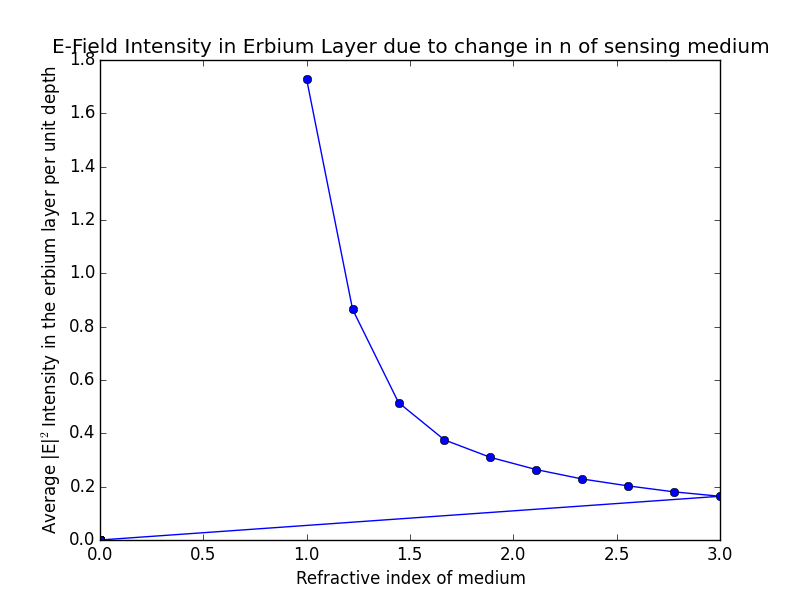
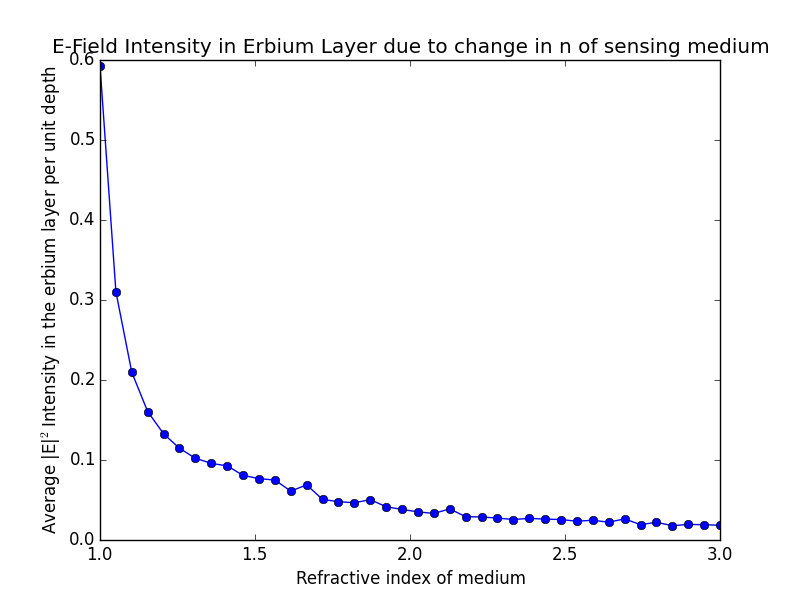
Imporved looping in test(). Now shows the same E field as in Polman - bar the magnitude.

diff --git a/lifetmm/examples.py b/lifetmm/examples.py
@@ -16,27 +16,48 @@ import matplotlib.pyplot as plt
 # "1.2 / degree" is 1.2 radians expressed in degrees
 degree = pi / 180
 
+mmTOnm = 1E6
+
+
 def test():
     # Loop parameters
     # list of wavelengths to evaluate
     lambda_vac = 1550
-    # incoming light angle
-    th_0 = linspace(0, 90, num=90+1, endpoint=False) # in degrees (convert in function argument)
+    # incoming light angle (in degrees)
+    th_0 = linspace(0, 90, num=90, endpoint=False)
 
-    # ------------- DO CALCULATIONS  -----------------
     # list of layer thicknesses in nm. First and last layer are semi-infinite ambient and substrate layers
-    d_list = [inf, 10000, 10000, inf]
+    d_list = [inf, 1000, inf]
     # list of refractive indices
-    n_list = [1.5, 1.5, 1.5, 1.5]
+    n_list = [1.5, 1.5, 3]
+    n_listB = [1.5, 1.5, 1.5]
 
     data = np.zeros(sum(d_list[1:-1]))
-    E_avg = np.zeros(len(d_list))
+    E_avg =0
+
+    runs = 0
+
     for th in th_0:
-        data += TransferMatrix(d_list, n_list, lambda_vac, th * degree, 's')['E_square']
-        E_avg += TransferMatrix(d_list, n_list, lambda_vac, th * degree, 's')['E_avg']
+        for pol in ['s', 'p']:
+            for rev in [True, False]:
+                runs += 1
+                data += (TransferMatrix(d_list, n_list, lambda_vac, th * degree, pol, reverse=rev)['E_square'] /
+                         TransferMatrix(d_list, n_listB, lambda_vac, th * degree, pol, reverse=rev)['E_square'])
+
+                E_avg += (TransferMatrix(d_list, n_list, lambda_vac, th * degree, pol, reverse=rev)['E_avg'][1] /
+                         TransferMatrix(d_list, n_listB, lambda_vac, th * degree, pol, reverse=rev)['E_avg'][1])
+
+        # E_avg += (TransferMatrix(d_list, n_list, lambda_vac, th * degree, 's', reverse=True)['E_avg'] +
+        #     TransferMatrix(d_list, n_list, lambda_vac, th * degree, 's', reverse=False)['E_avg']) /2
+
+    # Normalise
+    data /= runs
+    E_avg /= runs
+
+    print(E_avg)
 
     plt.figure()
-    plt.plot(E_avg)
+    plt.plot(data)
     plt.xlabel('Position in Device (nm)')
     plt.ylabel('Normalized |E|$^2$Intensity')
     plt.title('E-Field Intensity in Device')
@@ -141,40 +162,51 @@ def sample3():
     # list of wavelengths to evaluate
     lambda_list = [1550]  # in nm
     # incoming light angle
-    th_0 = linspace(0, 90, num=10, endpoint=False)  # in degrees (convert in function argument)
+    th_0 = linspace(0, 90, num=45, endpoint=False)  # in degrees (convert in function argument)
 
-    # ------------- DO CALCULATIONS  -----------------
     # list of layer thicknesses in nm
     d_list = [inf, 1500, 300, 10000, inf]
     # list of refractive indices
-    n_list_med = [1.5, 1.5, 1, 3, 3]
+    n_list_med = [1.5, 1.5+0.1j, 1, 1.4, 3]
+    n_list_bulk = [1.5, 1.5+0.1j, 1, 1, 1]
     # TODO zoran: bulk just gives 1 for all layers in E_avg - only when no imaginary component to n
     # TODO zoran: cos theta weighting present in both medium and bulk cancels => no effect => not needed?
-    n_list_bulk = [1.5, 1.5, 1.5, 1.5, 1.5]
+
+    # n range of sensing medium
+    nrange = linspace(1, 3, num=40)
+    # layer which is the sensing medium
+    medium = 4
+
+    # Initialise arrays
     data_s = np.zeros(len(d_list[1:-1]))
     data_p = np.zeros(len(d_list[1:-1]))
-    data = np.zeros(len(linspace(1, 3)))
-    x = np.zeros(len(linspace(1, 3)))
+    y_E_avg = np.zeros(len(nrange))
+    x_n = np.zeros(len(nrange))
+
     runs = 0
-    for i, n in enumerate(linspace(1, 3, num=10)):
-        n_list_med[3] = n
+    for i, n in enumerate(nrange):
+        n_list_med[medium] = n
         for lambda_vac in lambda_list:
             for th in th_0:
                 runs += 1
-                a = TransferMatrix(d_list, n_list_med, lambda_vac, th * degree, 's')['E_avg']
-                b = TransferMatrix(d_list, n_list_bulk, lambda_vac, th * degree, 's')['E_avg']
-                data_s += (a[1:-1]/b[1:-1])
-                c = TransferMatrix(d_list, n_list_med, lambda_vac, th * degree, 'p')['E_avg']
-                d = TransferMatrix(d_list, n_list_bulk, lambda_vac, th * degree, 'p')['E_avg']
-                data_p += (c[1:-1]/d[1:-1])
+                a = TransferMatrix(d_list, n_list_med, lambda_vac, th * degree, 's')['E_avg'] +\
+                    TransferMatrix(d_list, n_list_med, lambda_vac, th * degree, 's', reverse=True)['E_avg']
+                b = TransferMatrix(d_list, n_list_bulk, lambda_vac, th * degree, 's')['E_avg'] +\
+                    TransferMatrix(d_list, n_list_bulk, lambda_vac, th * degree, 's', reverse=True)['E_avg']
+                data_s += (a/b)
+                c = TransferMatrix(d_list, n_list_med, lambda_vac, th * degree, 'p')['E_avg'] +\
+                     TransferMatrix(d_list, n_list_med, lambda_vac, th * degree, 'p')['E_avg']
+                d = TransferMatrix(d_list, n_list_bulk, lambda_vac, th * degree, 'p')['E_avg'] +\
+                    TransferMatrix(d_list, n_list_bulk, lambda_vac, th * degree, 'p', reverse=True)['E_avg']
+                data_p += (c/d)
         data_s /= runs  # Normalise again - average over loops
         data_p /= runs  # Normalise again
-        data[i] = (data_s[0] + data_p[0]) / 2  # Take average for unpolarised light
-        x[i] = n
+        y_E_avg[i] = (data_s[0] + data_p[0]) / 2  # Take average for unpolarised light
+        x_n[i] = n
     # ----------------------- END -----------------------------
 
     plt.figure()
-    plt.plot(x,data, 'o-')
+    plt.plot(x_n,y_E_avg, 'o-')
     plt.xlabel('Refractive index of medium')
     plt.ylabel('Average |E|$^2$Intensity in the erbium layer per unit depth')
     plt.title('E-Field Intensity in Erbium Layer due to change in n of sensing medium')
@@ -217,4 +249,4 @@ def samplePol():
     # plt.savefig('moreColors.png')
     plt.show()
 
-sample3()
+test()

diff --git a/lifetmm/lifetmm_core.py b/lifetmm/lifetmm_core.py
@@ -140,8 +140,9 @@ def TransferMatrix(d_list, n_list, lam_vac, th_0, pol, x_step=1, reverse=False, 
         S = np.asarray(np.mat(S) * np.mat(mL) * np.mat(mI))
 
     # JAP Vol 86 p.487 Eq 9 and 10: Power Reflection and Transmission
-    R = abs(S[1, 0] / S[0, 0]) ** 2
-    T = abs(1 / S[0, 0]) ** 2  # note this is incorrect https://en.wikipedia.org/wiki/Fresnel_equations
+    # R = abs(S[1, 0] / S[0, 0]) ** 2
+    # T = abs(1 / S[0, 0]) ** 2  # note this is incorrect https://en.wikipedia.org/wiki/Fresnel_equations
+    T = R = 1
 
     # Calculate incoherent power transmission into the glass - if glass is the ambient medium input
     # See Griffiths "Intro to Electrodynamics 3rd Ed. Eq. 9.86 & 9.87
@@ -201,6 +202,15 @@ def TransferMatrix(d_list, n_list, lam_vac, th_0, pol, x_step=1, reverse=False, 
     absorption = np.zeros(num_layers)
     for layer in range(1, num_layers):
         absorption[layer] = (4 * np.pi * np.imag(n[layer])) / (lam_vac * 1.0e-7)
+
+    # Flip back to normal
+    if reverse:
+        d_list = d_list[::-1]
+        n_list = n_list[::-1]
+        E_square = E_square[::-1]
+        E_avg = E_avg[::-1]
+        E = E[::-1]
+        absorption = absorption[::-1]
 
     return {'E_square': E_square, 'absorption': absorption, 'x_pos': x_pos,  # output functions of position
             'R': R, 'T': T, 'E': E, 'E_avg': E_avg,  # output overall properties of structure
